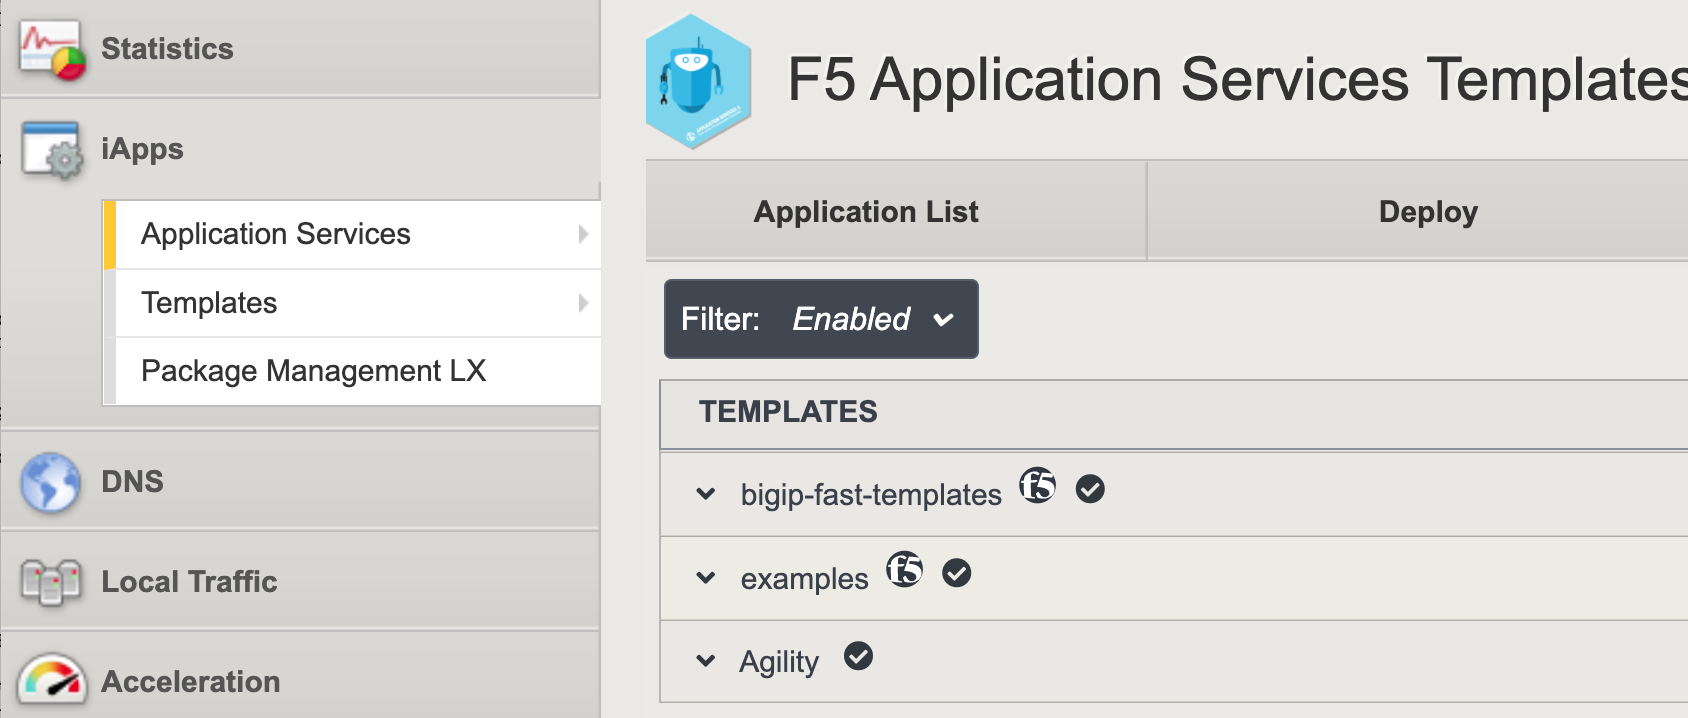
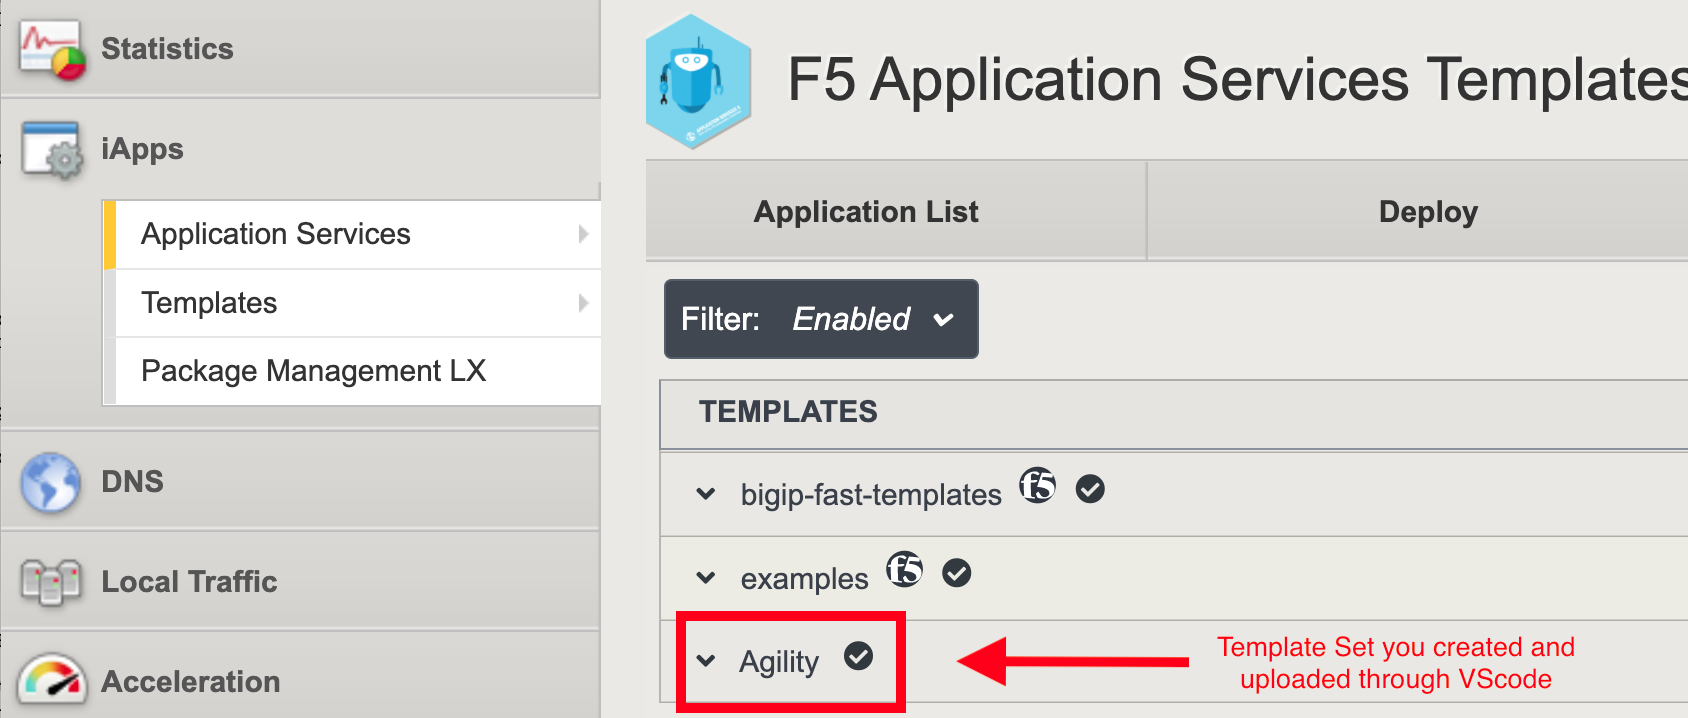
update

Changed region(s): [[0.4005, 0.8273, 0.955, 1.0]]

diff --git a/docs/class03/module1/lab04.rst b/docs/class03/module1/lab04.rst
@@ -169,7 +169,17 @@ this template Set then can be pushed to the BIG-IP. The FAST App can be deployed
 #. Click on the Deploy while you are in the F5 Application Services Templates 
 
    .. image:: ../images/ag19.png
+
+#. Once you click on Deploy, you will see the template ***Agility/http*** is rendered and is ready
+   to take different values, in the next step we will see the actual values you need to enter.
+
+
    .. image:: ../images/ag21.png
+
+#. Enter the values for *** Tenant Name  virtual_server service_port *** Click on the row tab to expand the
+   it and enter the server addresses ***10.1.20.10 & 10.1.20.11 ***
+
+   
    .. image:: ../images/ag22.png
    .. image:: ../images/ag24.png
    .. image:: ../images/ag25.png
